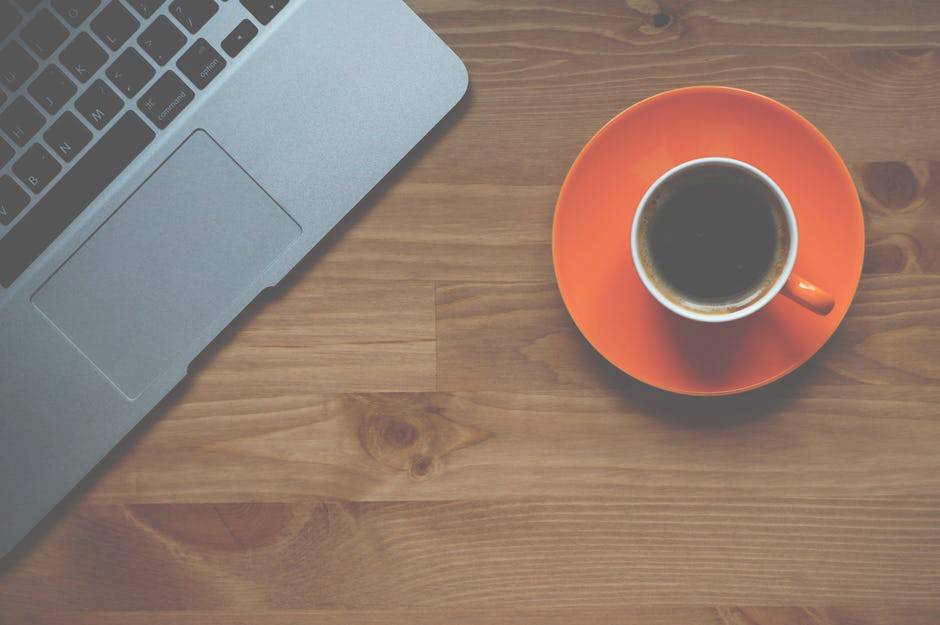
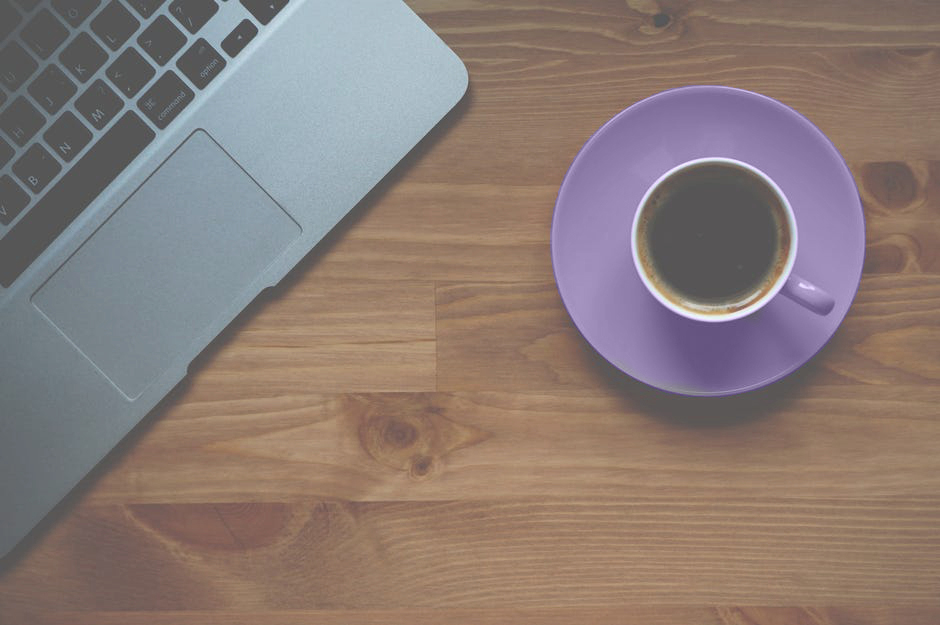
stuggle with colors and made the pic better

Changed region(s): [[0.5862, 0.1216, 0.9255, 0.6384]]

diff --git a/styles.css b/styles.css
@@ -1,26 +1,23 @@
 body {
-  background-color: #ae52d4;
+  background-color: #b085f5;
   text-align: center;
   font-family: 'Signika', sans-serif;
   padding: 0;
   margin: 0;
 }
-.navigation {
-  display: flex;
-  flex-direction: row;
-  justify-content: center;
-}
-#bj {
+h2 {
+  text-transform: uppercase;
+  width: 100%;
   font-size: 3em;
-}
-
-.about {
-  padding: 0 3em;
 }
 p {
   font-size: 1.25em;
 }
-
+/*Header*/
+#bj {
+  font-size: 4em;
+  text-transform: uppercase;
+}
 .header:after {
   content: "Full Stack Developer";
   animation: change 15s infinite;
@@ -42,41 +39,75 @@ p {
     content: "Coffee Addict ";
   }
 }
+header {
+  background-image: url(images/coffee-and-computer.jpeg);
+  color: black;
+  text-align: center;
+  background-attachment: fixed;
+  background-repeat: no-repeat;
+  background-size: cover;
+  padding-top: 3em;
+  padding-bottom: 3em;
+  font-size: 1.5em;
+  text-shadow: 2px 2px 8px #b085f5;
+}
+/*About*/
+
+#aboutSection {
+  background-color: #bbb5c3;
+  /*color: #ede7f6;*/
+  padding: 1em 0 1em 0;
+}
+#aboutSection > div {
+  padding: 0 3em;
+  display: flex;
+  flex-direction: row;
+  align-items: center;
+}
+
+#aboutSection > div > img {
+  width: 20em;
+  height: 20em;
+  border-radius: 50px;
+  padding: 0.5em;
+  background-color: #7e56c1;
+  margin: 1em;
+}
+
+/*projects*/
 .projectExamples {
   display: flex;
   flex-direction: row;
   padding: 1em;
 }
 
-header {
-  background-image: url(images/coffee-and-computer.jpeg);
-  color: black;
-  text-align: center;
-  background-size: cover;
-  padding-top: 3em;
-  padding-bottom: 3em;
-  font-size: 1.5em;
-  text-shadow: 2px 2px 8px #ae52d4;
-}
-section > h3 {
+.projects > h3 {
   text-align: left;
   padding-left: 1.5em;
   font-size: 2em;
 }
+
+.projects > div > img {
+  width: 11em;
+  height: 11em;
+  border: 0.25em solid #7e56c1;
+  margin: 1em;
+  border-radius: 50px;
+}
+
+/*bottom section*/
 .logos {
   width: 3em;
   height: 3em;
   padding: 1em;
 }
 
-section > div > img {
-  width: 11em;
-  height: 11em;
-  border: 0.25em solid black;
-  margin: 1em;
-  border-radius: 50px;
+.navigation {
+  display: flex;
+  flex-direction: row;
+  justify-content: center;
 }
-@media screen and (max-width: 600px) {
+@media screen and (max-width: 760px) {
   #bj {
     font-size: 2em;
   }
@@ -96,11 +127,27 @@ section > div > img {
     flex-direction: column;
     align-items: center;
   }
+  .projects > h3 {
+    text-align: center;
+    padding-left: 0em;
+    font-size: 2em;
+  }
 
   .projectExamples {
     display: flex;
     flex-direction: column;
     align-items: center;
     padding: 1em;
+  }
+  #aboutSection > div {
+    padding: 0 1em;
+    display: flex;
+    flex-direction: column;
+    align-items: center;
+  }
+  header {
+    background-size: auto;
+    padding-top: 3em;
+    padding-bottom: 3em;
   }
 }

diff --git a/index.html b/index.html
@@ -12,13 +12,28 @@
     <h1 id="bj">- Bree Jackson -</h1>
     <h1 id="titles"><span class='header'> </span></h1>
   </header>
-  <h2>About Bree</h2>
-  <p class="about">Hello and welcome to my portfolio! My name is Bree Jackson, and I am a Junior Full Stack Developer. After spending years crafting, painting, and woodworking on my own time, and seeing the tool that coding was, I decided to give building via code a try. Oh how rewarding it has been!! I have spent 3 months in intensive training at The Iron Yard, and have learned a lot- but I need to learn more! Though I am spending my time in Node.js right now, I look forward to the opportunity to learning Ruby, React, and whatever else comes my way in the future.</p>
+  <section id="aboutSection">
+
+    <h2>About Bree</h2>
+    <div class="aboutDivandImage">
 
 
-  <p class="about">When set with a task I work as hard as I can to find a solution. Unafraid to ask for help, I thrive in the ability to work in small teams where ideas can be bounced around and made real. As long as coffee is involved, I will always find the energy to keep on going.</p>
+    <div class="aboutDiv">
 
-  <p class="about">I look forward to meeting you! </p>
+
+      <p class="about">Hello and welcome to my portfolio! My name is Bree Jackson, and I am a Junior Full Stack Developer. After spending years crafting, painting, and woodworking on my own time, and seeing the tool that coding was, I decided to give building via code a try. Oh how rewarding it has been!! I have spent 3 months in intensive training at The Iron Yard, and have learned a lot- but I need to learn more! Though I am spending my time in Node.js right now, I look forward to the opportunity to learning Ruby, React, and whatever else comes my way in the future.</p>
+
+
+      <p class="about">When set with a task I work as hard as I can to find a solution. Unafraid to ask for help, I thrive in the ability to work in small teams where ideas can be bounced around and made real. As long as coffee is involved, I will always find the energy to keep on going.</p>
+
+      <p class="about">I look forward to meeting you! </p>
+
+    </div>
+    <img src="images/pic-of-Bree.jpg" alt="">
+  </div>
+
+
+  </section>
   <section class="projects">
     <h2>Apps by Bree</h2>
     <h3>placeholder</h3>
